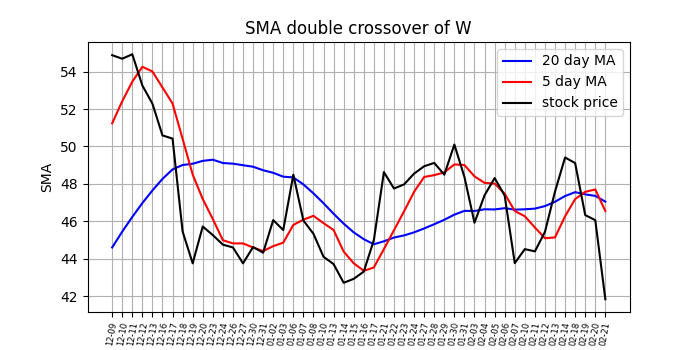
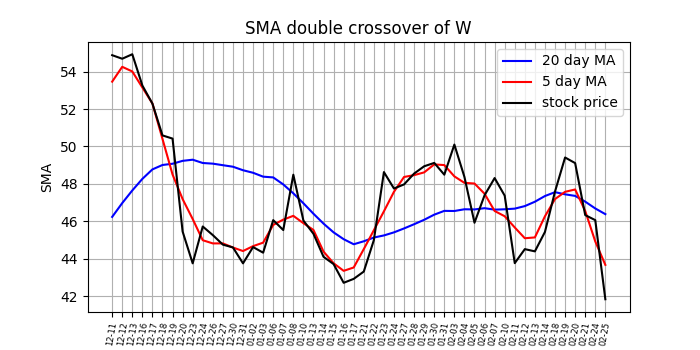
commit for 2025-02-25

diff --git a/_posts/2025-02-25-LYFT.md b/_posts/2025-02-25-LYFT.md
@@ -1,9 +1,9 @@
 ---
 layout: post
-title: "VRTX"
-company: Vertex Pharma Inc.
-date: 2025-02-21 -0500
-categories: biotech
+title: "LYFT"
+company: Lyft Inc.
+date: 2025-02-25 -0500
+categories: consumer
 ---
 
 ### Most up to date figures for {{page.company}} ({{ page.title }}).
@@ -14,7 +14,7 @@ categories: biotech
 
 ### Transactions
 
-
+**Buy**: $20 on 1/22/25
 
 ### Thoughts
-(1/21/25) - **Miss**. Missed buy opportunity on 1/16 after MA double cross. Look for short opportunity soon.
+(1/21/25) - **Buy**. Opportunity here as the 5 day MA is about to cross 20 day. In addition, MACD has upward momentum and the RSI is near median.

diff --git a/_posts/2025-02-25-W.md b/_posts/2025-02-25-W.md
@@ -1,9 +1,9 @@
 ---
 layout: post
-title: "LYFT"
-company: Lyft Inc.
-date: 2025-02-21 -0500
-categories: consumer
+title: "W"
+company: Wayfair Inc.
+date: 2025-02-25 -0500
+categories: internet retail
 ---
 
 ### Most up to date figures for {{page.company}} ({{ page.title }}).
@@ -14,7 +14,4 @@ categories: consumer
 
 ### Transactions
 
-**Buy**: $20 on 1/22/25
-
 ### Thoughts
-(1/21/25) - **Buy**. Opportunity here as the 5 day MA is about to cross 20 day. In addition, MACD has upward momentum and the RSI is near median.

diff --git a/_posts/2025-02-25-VRTX.md b/_posts/2025-02-25-VRTX.md
@@ -1,9 +1,9 @@
 ---
 layout: post
-title: "W"
-company: Wayfair Inc.
-date: 2025-02-21 -0500
-categories: internet retail
+title: "VRTX"
+company: Vertex Pharma Inc.
+date: 2025-02-25 -0500
+categories: biotech
 ---
 
 ### Most up to date figures for {{page.company}} ({{ page.title }}).
@@ -14,4 +14,7 @@ categories: internet retail
 
 ### Transactions
 
+
+
 ### Thoughts
+(1/21/25) - **Miss**. Missed buy opportunity on 1/16 after MA double cross. Look for short opportunity soon.

diff --git a/_posts/2025-02-25-AMD.md b/_posts/2025-02-25-AMD.md
@@ -2,7 +2,7 @@
 layout: post
 title: "AMD"
 company: Advanced Micro Devices Inc.
-date: 2025-02-21 -0500
+date: 2025-02-25 -0500
 categories: tech
 ---
 
